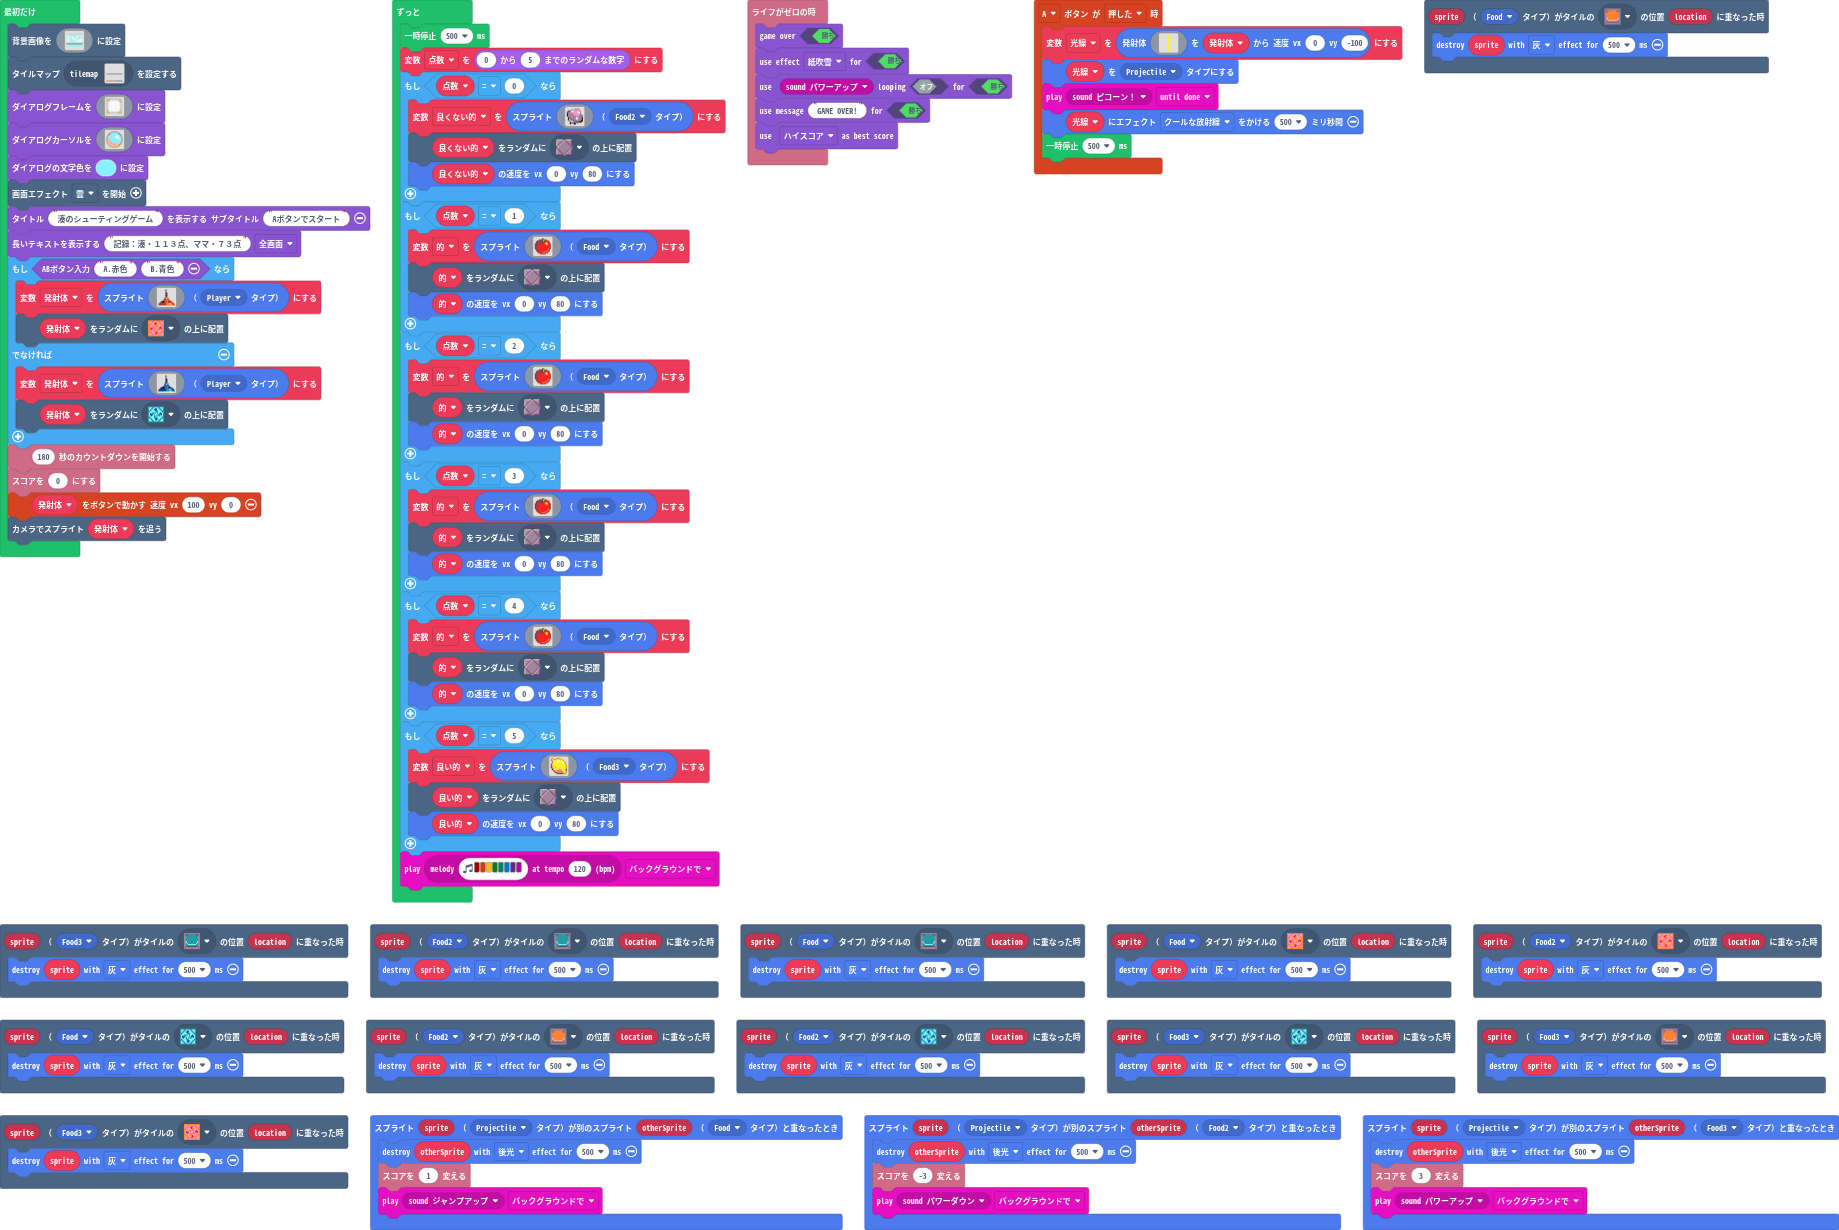
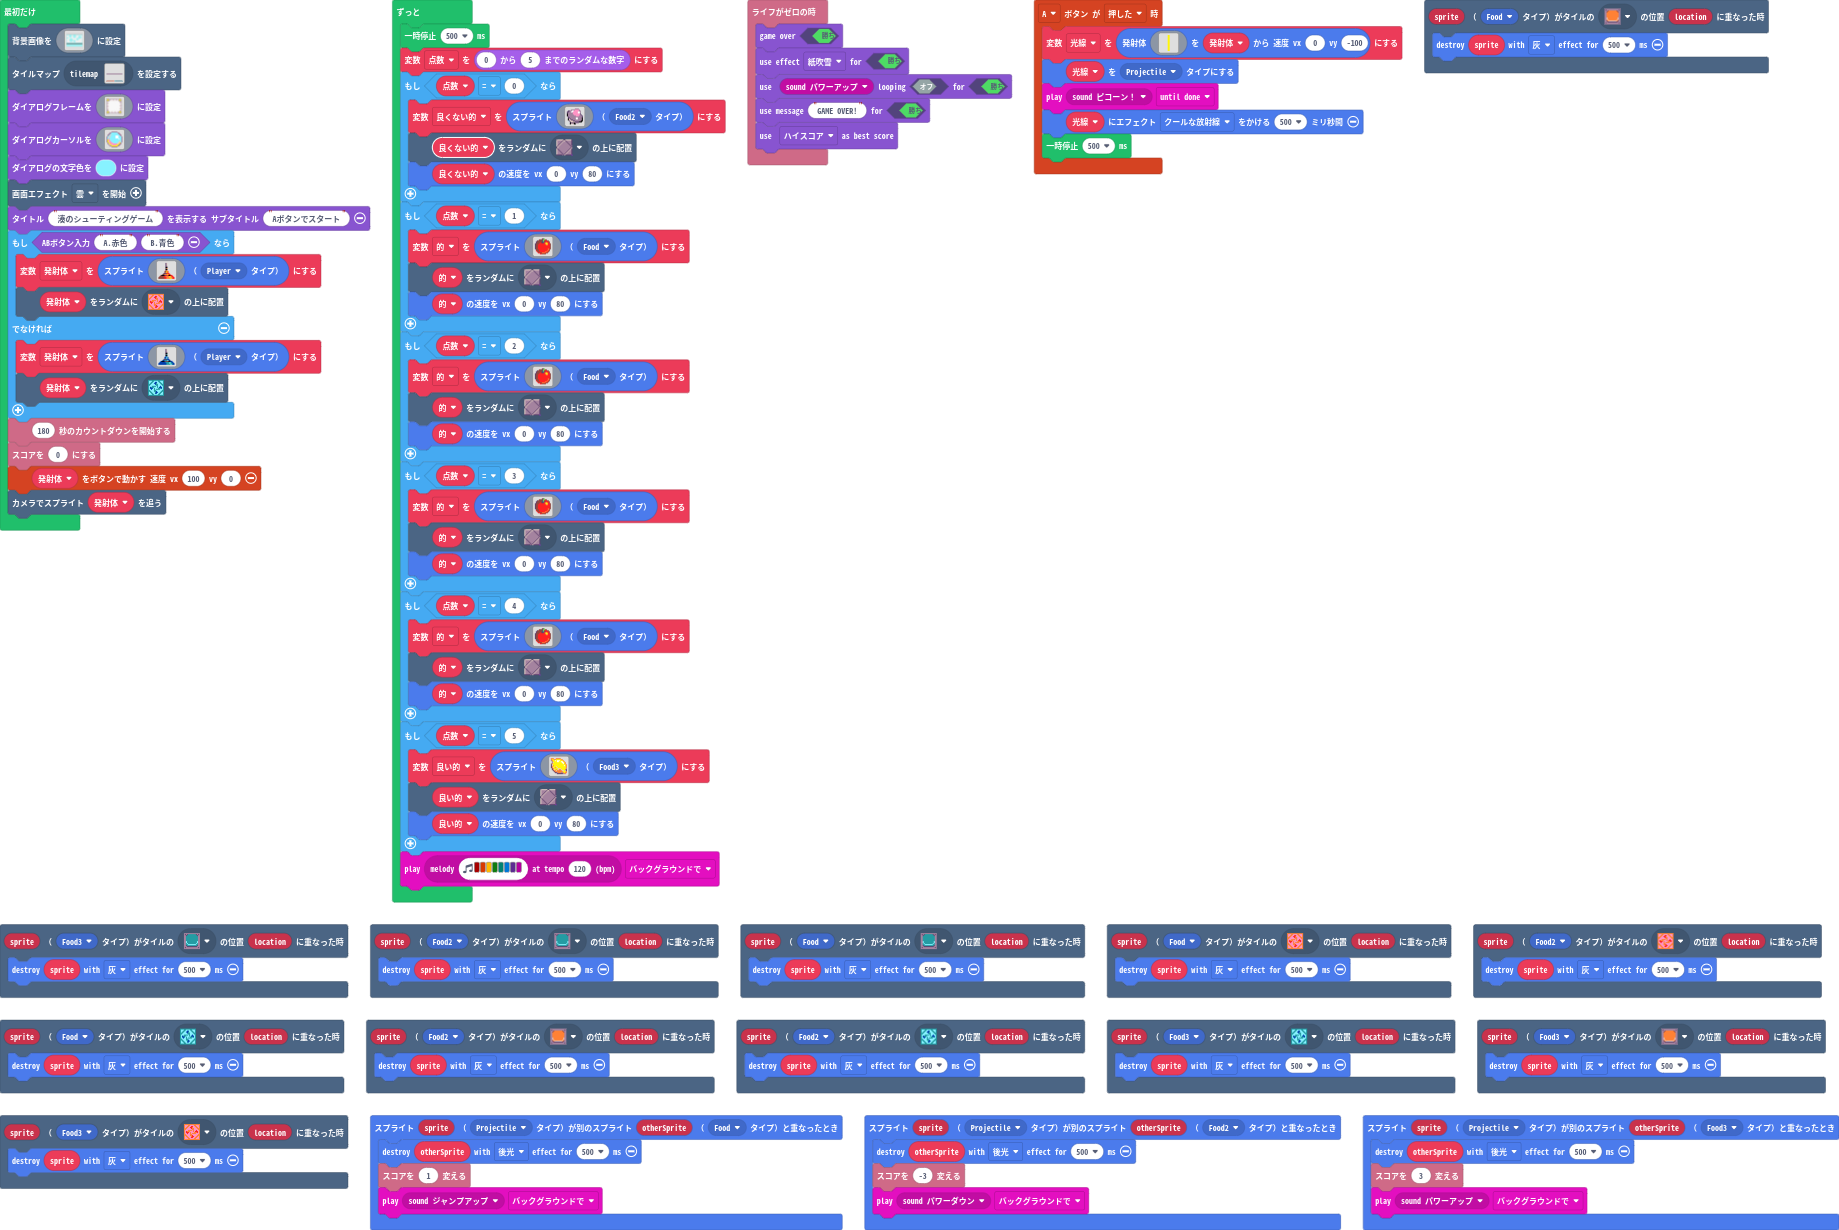
更新 main.blocks, main.ts

Changed region(s): [[0.0, 0.1854, 0.186, 0.4634]]

diff --git a/main.ts b/main.ts
@@ -278,7 +278,6 @@ game.setDialogCursor(img`
 game.setDialogTextColor(9)
 effects.clouds.startScreenEffect()
 game.splash("湊のシューティングゲーム", "Aボタンでスタート")
-game.showLongText("記録：湊・１１３点、ママ・７３点", DialogLayout.Full)
 if (game.ask("A.赤色", "B.青色")) {
     発射体 = sprites.create(img`
         . . . . . . . c d . . . . . . . 
